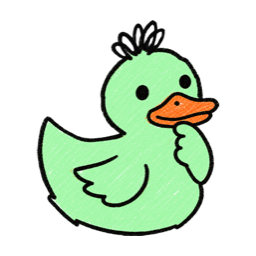
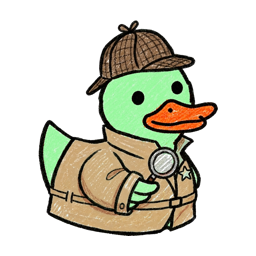
Give search its own detective pose instead of sharing thinking with other-tool

diff --git a/tools/generate_dock_icons.swift b/tools/generate_dock_icons.swift
@@ -242,7 +242,7 @@ let fileManager = FileManager.default
 let poseForState: [(output: String, adjective: String)] = [
     ("idle", "idle"),
     ("bash", "construction"),
-    ("search", "thinking"),
+    ("search", "detective"),
     ("other", "thinking"),
     ("eureka", "eureka"),
     ("awaiting-input", "front"),

diff --git a/README.md b/README.md
@@ -9,7 +9,7 @@ See [DOCKLING_SPEC.md](./DOCKLING_SPEC.md) for the full design rationale. This R
 - One Dock icon per active Claude Code session (not one aggregate icon), driven by Claude Code's [hook system](https://docs.claude.com/en/docs/claude-code/hooks).
 - Each session's duck gets a random color from a 9-color pool, avoiding colors currently in use by other active sessions; that color is then remembered per project (see [Per-project colors](#per-project-colors)).
 - Hovering a Dock icon shows the project name.
-- Poses: idle, bash (construction), edit (coding), search, other-tool, awaiting-input, error, eureka (task completed), thumbs-up (a reply was just sent), committing (bride or groom formalwear, for `git commit` — see [Configuration](#configuration)), pulling (fishing, for `git pull`), butt (farewell — shown for 1.5s right before the duck exits on session end).
+- Poses: idle, bash (construction), edit (coding), search (detective), other-tool, awaiting-input, error, eureka (task completed), thumbs-up (a reply was just sent), committing (bride or groom formalwear, for `git commit` — see [Configuration](#configuration)), pulling (fishing, for `git pull`), butt (farewell — shown for 1.5s right before the duck exits on session end).
 - Sound effects: a short cue plays when a session becomes ready for your next message (any `Stop`, whichever pose shows first), and another when it's specifically waiting on you to answer something (`Notification` → awaiting-input).
 - Clicking a duck while it's awaiting input pops open a small reply panel, anchored right above wherever you clicked. Submitting delivers the text into the session's terminal via `tmux send-keys`, and the duck shows a thumbs-up briefly. Can be turned off — see [Configuration](#configuration).
 - Each subagent a session spawns gets its own duck too — same color as its parent, 80% her size — that appears while the subagent's working and disappears shortly after it reports back. See [Subagent ("baby") ducks](#subagent-baby-ducks). Can be turned off — see [Configuration](#configuration).
